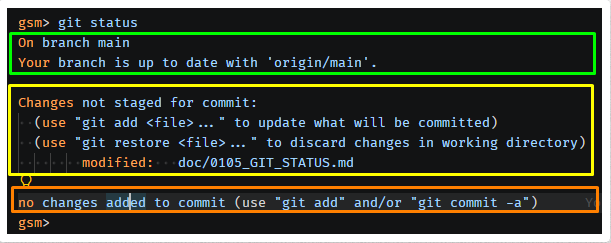
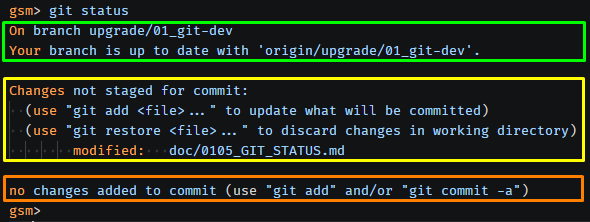
add git diff

diff --git a/doc/0107_GIT_PUSH.md b/doc/0107_GIT_PUSH.md
@@ -27,44 +27,7 @@ Et du coup, voyons ce que 'raconte' *git status*... :
 ```bash
 gsm> git status
 On branch main
-Your branch is ahead of 'origin/main' by 1 commit.
-  (use "git push" to publish your local commits)
-
-nothing to commit, working tree clean
-gsm>
-```
-
-→ Git te dit :
-
-“Tu as 1 commit local que GitHub n’a pas encore.”
-
-Donc ton dépôt local = en avance (*ahead*)
-Ton dépôt GitHub = en retard (Par réciprocité)
-
-Maintenant, afin que ce que vous avez fait codé compte vraiment, il faut, comme le suuggère la CLI, '***push***' vos *commits* !
-
-C'est l'étape **la plus importante**, celle qui rend 'votre travail enregistrée dans le marbre' !
-
-
-## 🚀 L’action correcte : Pousser vers le remote
-
-La commande git est :
-
-```bash
-git push
-```
-
-Aujourd’hui
-## Synchronisation de ton projet en local (tes fichiers) et de ton dépôt distant (Sur GH)
-
-Alors, comme ça... **Vous avez agît**...? Codé, fait des commits... **B R A V O S !**
-
-Et du coup, voyons ce que 'raconte' *git status*... :
-
-```bash
-gsm> git status
-On branch main
-Your branch is ahead of 'origin/main' by 1 commit.
+Your branch is ahead of 'upgrade/01_git-dev' by 1 commit.
   (use "git push" to publish your local commits)
 
 nothing to commit, working tree clean

diff --git a/doc/0104_GIT_BRANCH.md b/doc/0104_GIT_BRANCH.md
@@ -29,7 +29,7 @@ En réalité, Git garde 'simplement' un **historique d’instantanés** (*snapsh
 
 C’est pour cela qu’on peut **multiplier les branches** sans “gonfler” le dépôt car très léger, mais aussi et surtout, ce traitement est complètement transparent pour nous : Alors, ne pas hésiter à en abuser !
 
-### 🛠️ Donc, étape 1 — Crééer une branche de travail
+### 🛠️ Donc, étape 1 — Crééer une branche de travail - ***git switch -c dev/branch-name***
 
 Tu peux nommer ta branche comme tu veux, mais voici la [norme idéalement](https://codeheroes.fr/blog/git-comment-nommer-ses-branches-et-ses-commits) :
 
@@ -95,6 +95,22 @@ git checkout HEAD -- fichier.txt
     # + moderne :
 git restore fichier.txt
 ```
+
+---
+
+### Voir les modifs d'un fichier
+
+```bash
+git diff filename
+```
+
+<div align="center">
+  <a href="./imgs/104_git_diff.png" target="_blank">
+    <img src="./imgs/104_git_diff.png" width="500">
+  </a>
+</div>
+
+→ Rassure-toi ! Des outils graphiques simplifient énormément ces commandes et leurs rendus...
 
 ---
 

diff --git a/doc/0106_GIT_COMMIT.md b/doc/0106_GIT_COMMIT.md
@@ -25,14 +25,13 @@ Dans cette sortie, il faut identifier **3 zônes importantes**
 ### 1. 🟩 Globalement, tes dépôts 'le local' et 'le distant' sont identiques, si l'on ne considére que les fichiers déjà enregistrés (donc déjà ***push***).
 
 ```bash
-gsm> git status
-On branch main
-Your branch is up to date with 'origin/main'
+On branch upgrade/01_git-dev
+Your branch is up to date with 'origin/upgrade/01_git-dev'.
 ...
 gsm>
 ```
 
-### 2. 🟨 Par contre, il existe une modification (dans notre exemple, mais il peut y en avoir plusieurs) qui n’a pas encore été ajoutée pour être validée dans Git.
+### 2. 🟨 Par contre, il existe une modification (dans notre exemple, mais il peut y en avoir plusieurs) qui n’a pas encore été ajoutée pour être validée dans Git
 
 On peut soit l'ajouter avec :
 
@@ -53,7 +52,7 @@ Changes not staged for commit:
 gsm>
 ```
 
-### 3. 🟧 On décide de valider notre modification
+### 3. 🟧 → On décide de valider notre modification
 
 ```bash
 gsm> git status
@@ -85,7 +84,6 @@ Une fois les fichiers ajoutés (***staged***), on peut enregistrer la modificati
 
 ```bash
 git commit -m "Explication du commit et mise à jour de la doc"
-
 ```
 
 #### 3.3 Le raccourci puissant : ***git commit -a***
@@ -100,7 +98,7 @@ Elle permet de :
 - Les ajouter (comme si tu avais fait git add)
 - Puis faire le commit
 
-**En une seule commande** :
+**Donc, en une seule commande** :
 
 ```bash
 git commit -a -m "Explication du commit et mise à jour de la doc"

diff --git a/doc/0105_GIT_STATUS.md b/doc/0105_GIT_STATUS.md
@@ -74,8 +74,8 @@ git pull
 
 ```bash
 gsm> git status
-On branch demo/mon_dev
-Your branch is up to date with 'origin/demo/mon_dev'.
+On branch upgrade/01_git-dev
+Your branch is up to date with 'origin/upgrade/01_git-dev'.
 
 nothing to commit, working tree clean
 ```
@@ -86,8 +86,8 @@ Du coup, pas besoin de faire évoluer votre GH... 😭
 
 ```bash
 gsm> git status
-On branch main
-Your branch is up to date with 'origin/main'.
+On branch upgrade/01_git-dev
+Your branch is up to date with 'origin/upgrade/01_git-dev'.
 
 Changes not staged for commit:
   (use "git add <file>..." to update what will be committed)
@@ -100,7 +100,7 @@ gsm>
 
 Bravo, tu as déjà codé, et il te faut donc simplementfaire un ***commit* + *push*** sur ton dépôt GH... On va voir cela maintenat 👍 :
 
-(Dans notre exemple ci-dessus, de la saisie dans cettge page)
+(Dans notre exemple ci-dessus, de la saisie dans cette page)
 
 ---
 

diff --git a/doc/0103_GIT_USE.md b/doc/0103_GIT_USE.md
@@ -110,7 +110,7 @@ On est jamais à l'abri de devoir un jour re-initialiser un projet, même GSM (e
 
 *Tip*: Rien ne t'empêche d'y stocker, aussi dans ce 'private dépôt', vraiment tout ce que tu veux : De docs admins, factures, etc... Pas besoin forcément du code d'un quelconque langage, mais pas contre, une bonne artborescence bien réfléchie pour y retrouver facilement et rapidement tout doc au besoin... SSL, hautement sécurisé, décentralisé, gratos... Bref, tous tes trucs clés dans un unique support, dispo 24/24, indépendant de tout ton matos perso... Mais n'oublie pas, donc, d'y mettre aussi la copie de ton .env de ton projet GSM ! 😉 !
 
-### 💡 Pour plus de simplicité pour la suite dans un 1er temps, remets bien le fichier tel qu'il était au départ. Pour t'aider si besoin, look 'en avance sur ton temps', [les commandes avancées](./imgs/104_git_diff.png) nécessaires pour savoir où tu en es dans tes modifs..
+### 💡 Pour plus de simplicité pour la suite dans un 1er temps, remets bien le fichier tel qu'il était au départ. Pour t'aider si besoin, look 'en avance sur ton temps', [les commandes avancées](./imgs/104_git_diff.png) nécessaires pour savoir où tu en es dans tes modifs
 
 ---
 